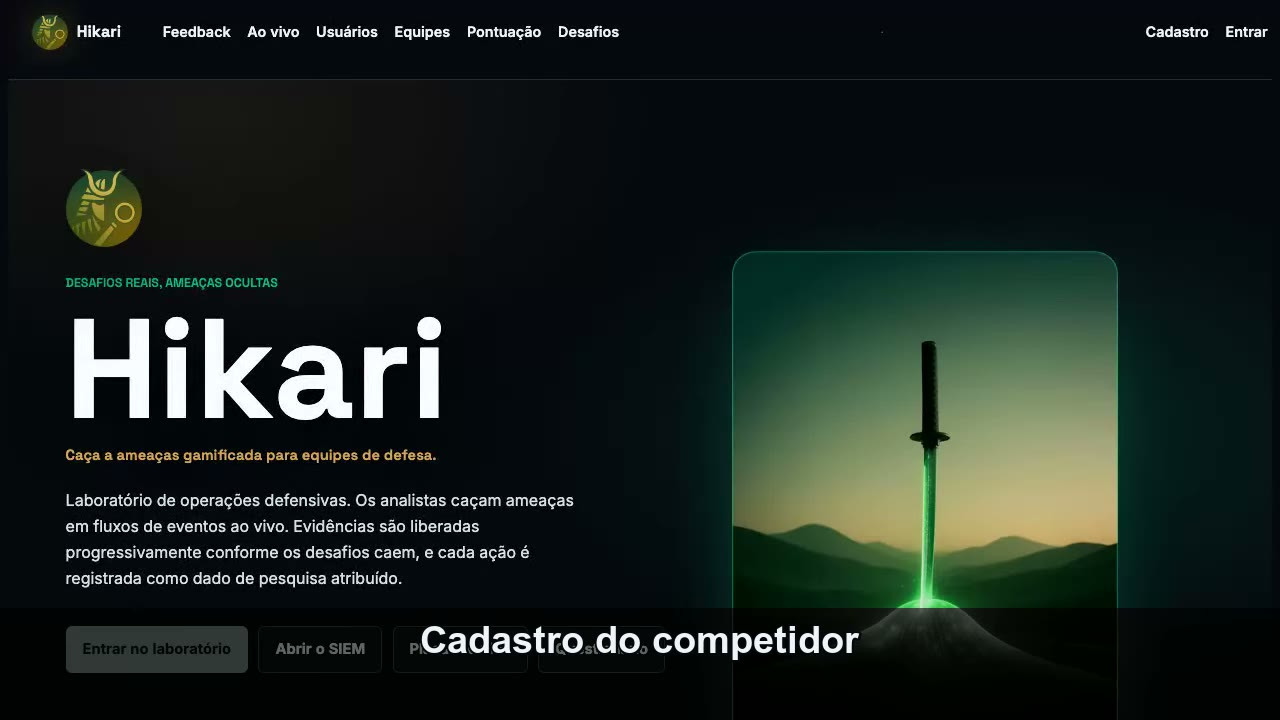
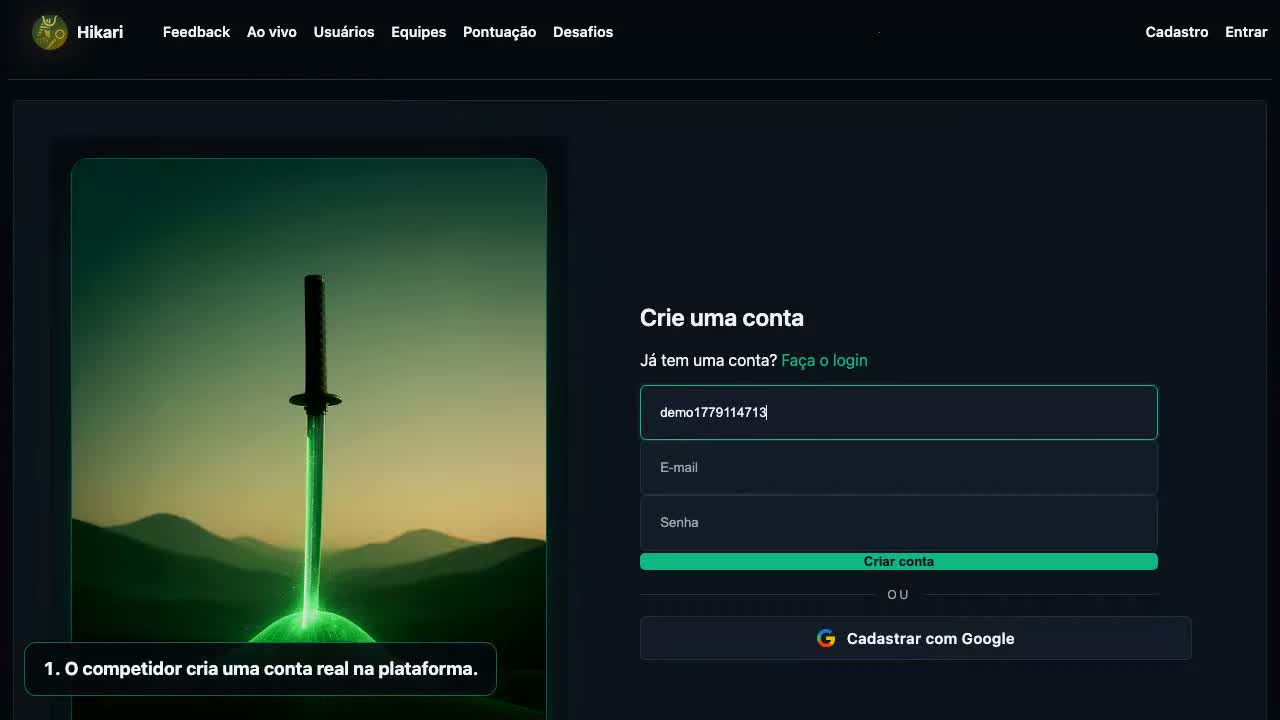
site: validate competitor demo flow

diff --git a/index.html b/index.html
@@ -520,24 +520,26 @@
         <article class="demo-card">
           <video controls preload="none" poster="assets/demos/posters/competidor.jpg">
             <source src="assets/demos/hikari-demo-competidor.webm" type="video/webm">
-            <track kind="captions" src="assets/demos/captions/competidor.vtt" srclang="pt-BR" label="Português" default>
+            <track kind="captions" src="assets/demos/captions/competidor.vtt" srclang="pt-BR" label="Português">
           </video>
           <h3>Competidor</h3>
-          <p>Cadastro, entrada em equipe, abertura de desafios e acesso ao SIEM.</p>
-          <div class="demo-meta">Roteiro: 60 segundos</div>
+          <p>Cadastro, equipe, desafio, SIEM, tentativa incorreta, flag correta e placar.</p>
+          <div class="demo-meta">Roteiro validado: 60 segundos</div>
           <ul class="demo-steps">
-            <li><time>0:00</time><span>Entrar na plataforma e localizar a competição.</span></li>
-            <li><time>0:10</time><span>Criar conta e autenticar como participante.</span></li>
-            <li><time>0:20</time><span>Entrar em equipe ou operar individualmente.</span></li>
-            <li><time>0:32</time><span>Abrir o desafio e seguir para o SIEM.</span></li>
-            <li><time>0:44</time><span>Enviar flag e registrar acertos, erros e tentativas.</span></li>
+            <li><time>0:00</time><span>Ver o objetivo do fluxo do competidor.</span></li>
+            <li><time>0:06</time><span>Criar conta e registrar o participante.</span></li>
+            <li><time>0:14</time><span>Criar equipe para operar em grupo.</span></li>
+            <li><time>0:22</time><span>Abrir o desafio e acessar o SIEM.</span></li>
+            <li><time>0:32</time><span>Consultar o dashboard Kibana pelo gateway autenticado.</span></li>
+            <li><time>0:43</time><span>Registrar tentativa incorreta e flag correta.</span></li>
+            <li><time>0:55</time><span>Confirmar o impacto no placar ao vivo.</span></li>
           </ul>
-          <div class="demo-proof">Prova exibida: o competidor chega ao desafio, consulta o SIEM e registra ações atribuídas.</div>
+          <div class="demo-proof">Prova exibida: o vídeo mostra cadastro, equipe, SIEM, Kibana, erro, solve e telemetria atribuída.</div>
         </article>
         <article class="demo-card">
           <video controls preload="none" poster="assets/demos/posters/siem.jpg">
             <source src="assets/demos/hikari-demo-siem.webm" type="video/webm">
-            <track kind="captions" src="assets/demos/captions/siem.vtt" srclang="pt-BR" label="Português" default>
+            <track kind="captions" src="assets/demos/captions/siem.vtt" srclang="pt-BR" label="Português">
           </video>
           <h3>SIEM</h3>
           <p>Dashboard do Kibana com painéis e atalhos de caça para threat hunting.</p>
@@ -554,7 +556,7 @@
         <article class="demo-card">
           <video controls preload="none" poster="assets/demos/posters/pesquisa.jpg">
             <source src="assets/demos/hikari-demo-pesquisa.webm" type="video/webm">
-            <track kind="captions" src="assets/demos/captions/pesquisa.vtt" srclang="pt-BR" label="Português" default>
+            <track kind="captions" src="assets/demos/captions/pesquisa.vtt" srclang="pt-BR" label="Português">
           </video>
           <h3>Análise científica</h3>
           <p>Placar ao vivo, métricas de atividade e exportação dos dados de pesquisa.</p>
@@ -569,7 +571,7 @@
           <div class="demo-proof">Prova exibida: administradores veem cobertura do feedback e exportam dados por competição.</div>
         </article>
       </div>
-      <p class="figcap">Trilha dos vídeos: <em>Ronin</em>, Yoitrax, Creative Commons BY 3.0, via BreakingCopyright.</p>
+      <p class="figcap">Trilha dos vídeos: Demo 1 usa <em>A Just Ronin</em>, Solas Composer, Creative Commons BY-SA 3.0. Demos legadas usam <em>Ronin</em>, Yoitrax, Creative Commons BY 3.0. Fontes via BreakingCopyright.</p>
     </div>
   </section>
 